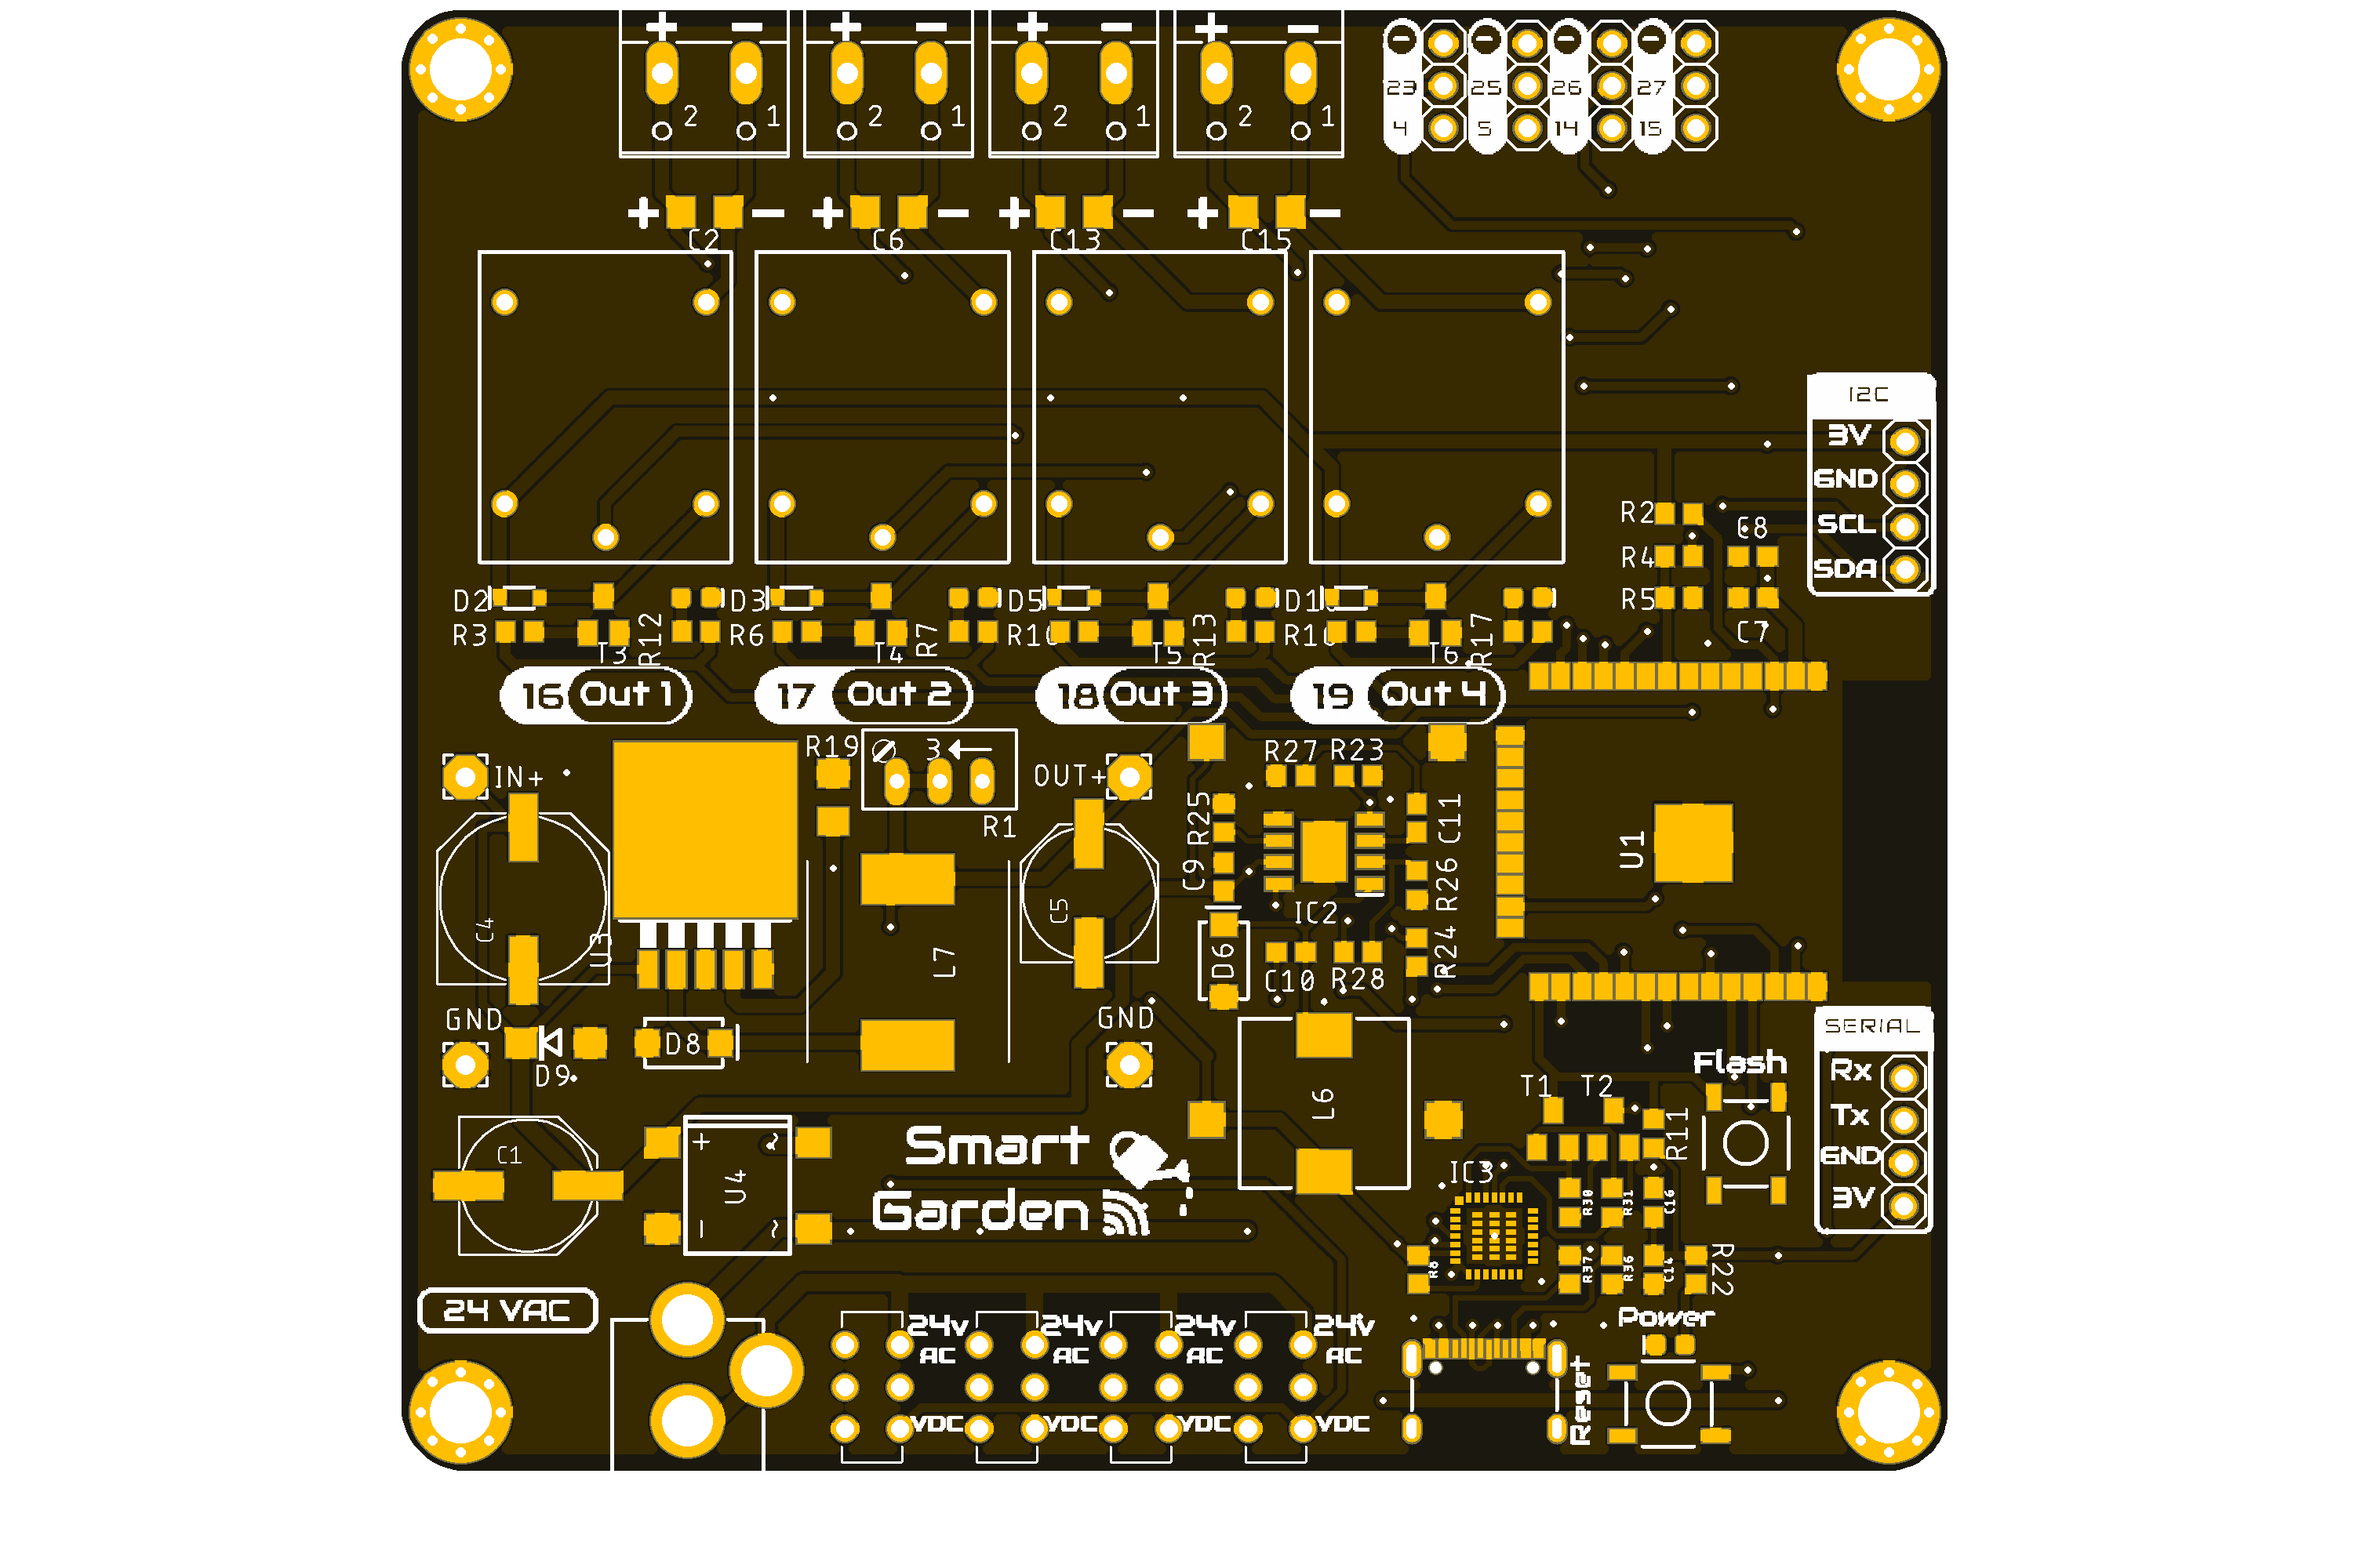
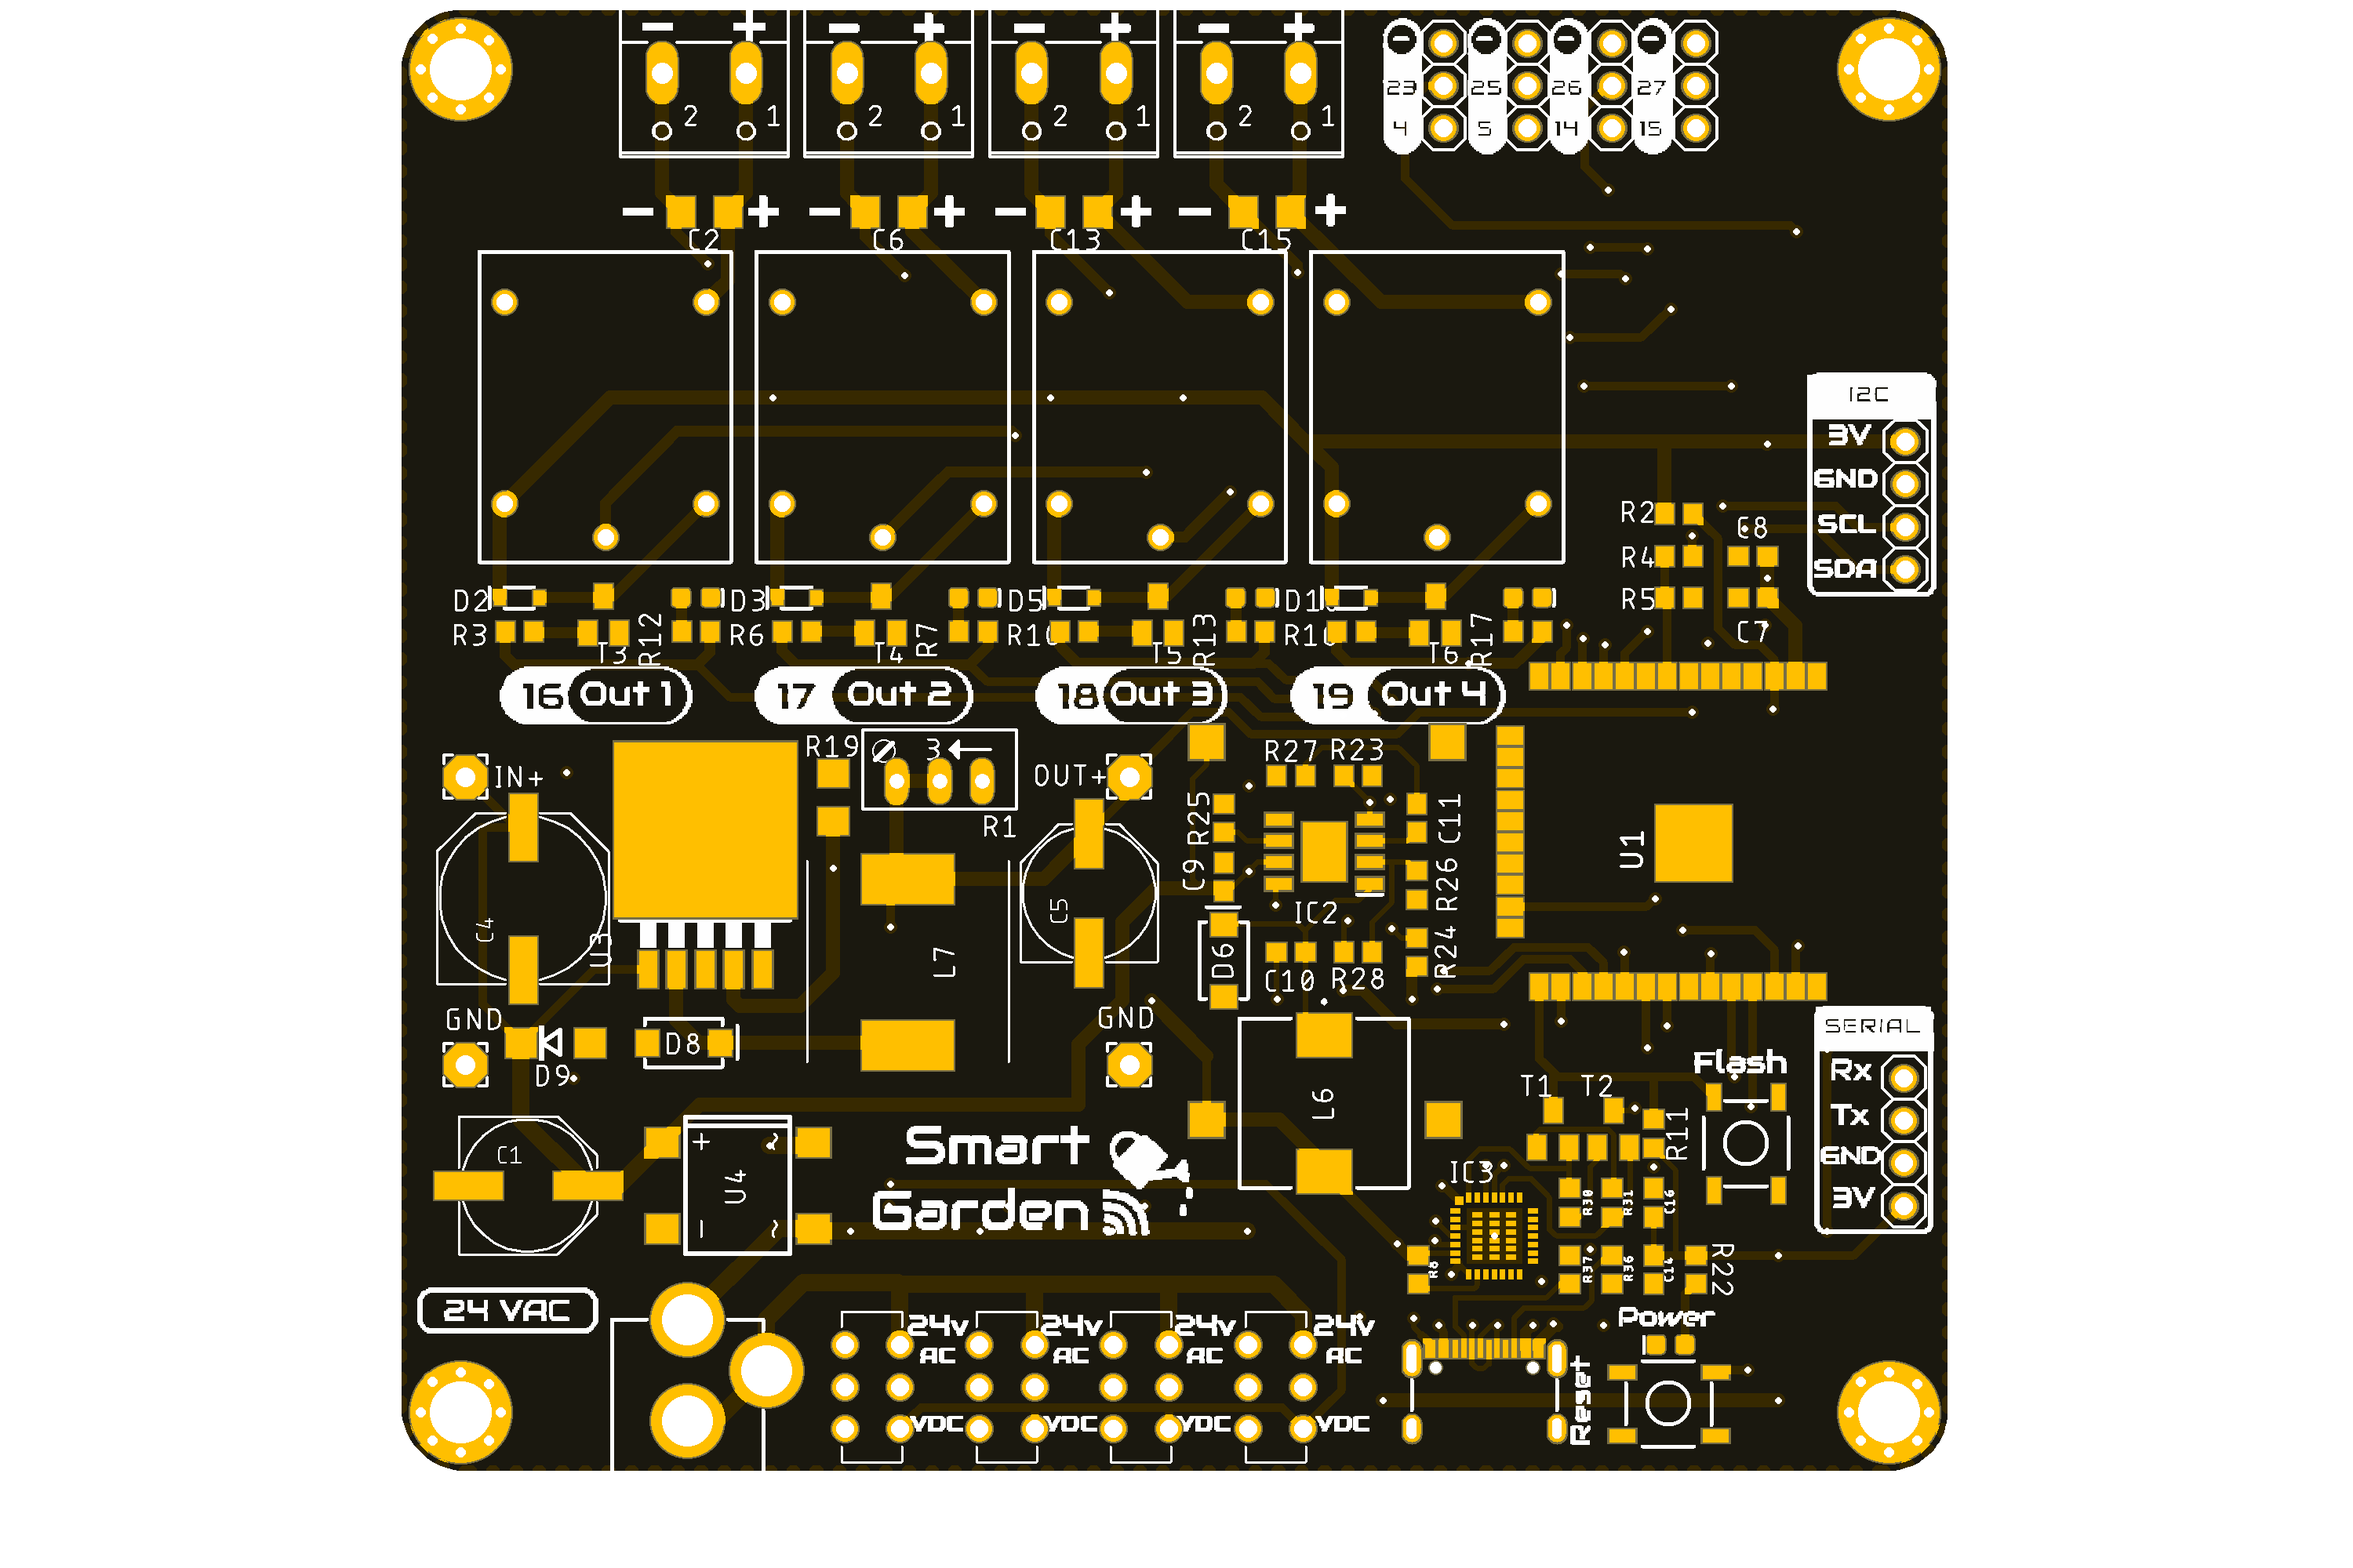
docs

diff --git a/docs/source/programming.rst b/docs/source/programming.rst
@@ -38,7 +38,7 @@ to get it ready to work in your network:
 
 1. Power the board, and let it run for 1-2 minutes. When the board cannot connect to a WiFi network, it will 
    create a fallback hotspot.
-2. Use a smartphone or tablet and go to the WiFi settings, connect to the recently created *Smart-Garden* hotspot with the password *SmartGarden*.
+2. Use a smartphone or tablet and go to the WiFi settings, connect to the recently created *Smart-Garden* hotspot with the password *smartgarden*.
 3. Access to the captive portal and open the browser if doesn't pop up automatically.
 4. Enter your network setttings and press *Save*.
 

diff --git a/docs/source/getting_started.rst b/docs/source/getting_started.rst
@@ -146,7 +146,7 @@ In order to provide a feedback of the DC regulated voltage that would be output,
 Since it is designed in a voltage divider configuration for avoiding the input read above 3.3V to the microcontroller, the correspondent equation for obtaining 
 the real voltage is as follows:
 
-:math:`V_{real} = \frac{11.2k\omega}{1.2k\omega} \cdot V_{measured} = 9.33 \cdot V_{measured}`
+:math:`V_{real} = \frac{11.2k\Omega}{1.2k\Omega} \cdot V_{measured} = 9.33 \cdot V_{measured}`
 
 Communications
 -----------
